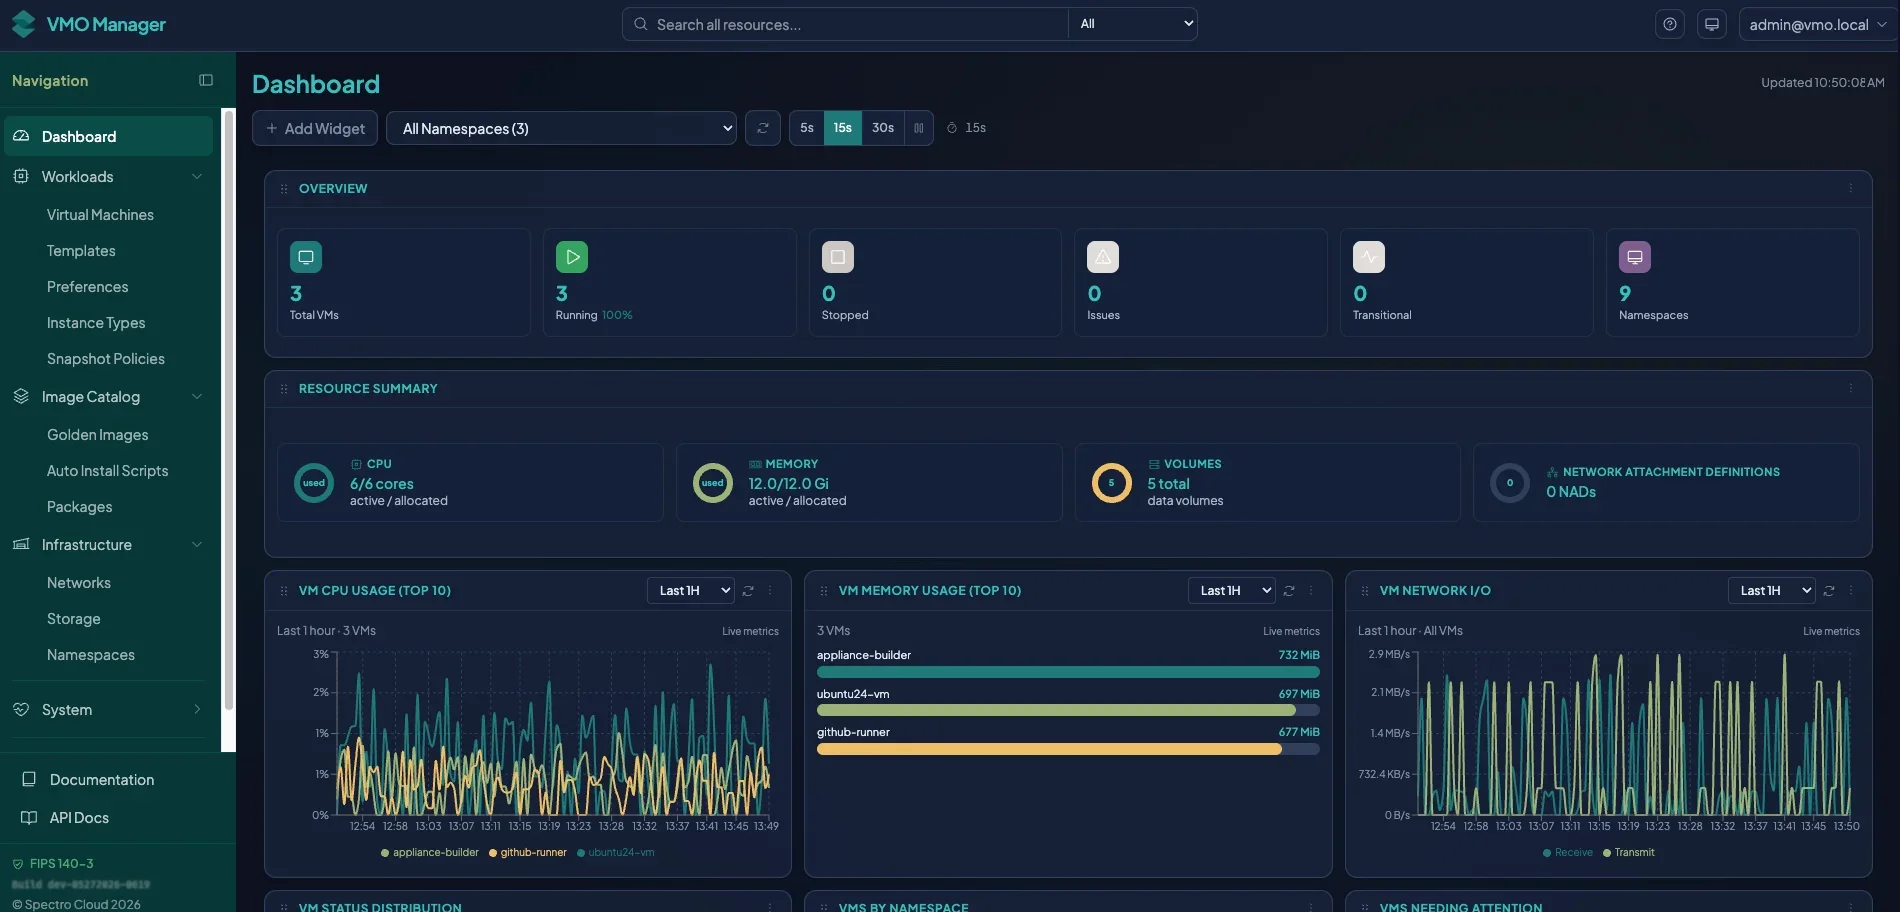
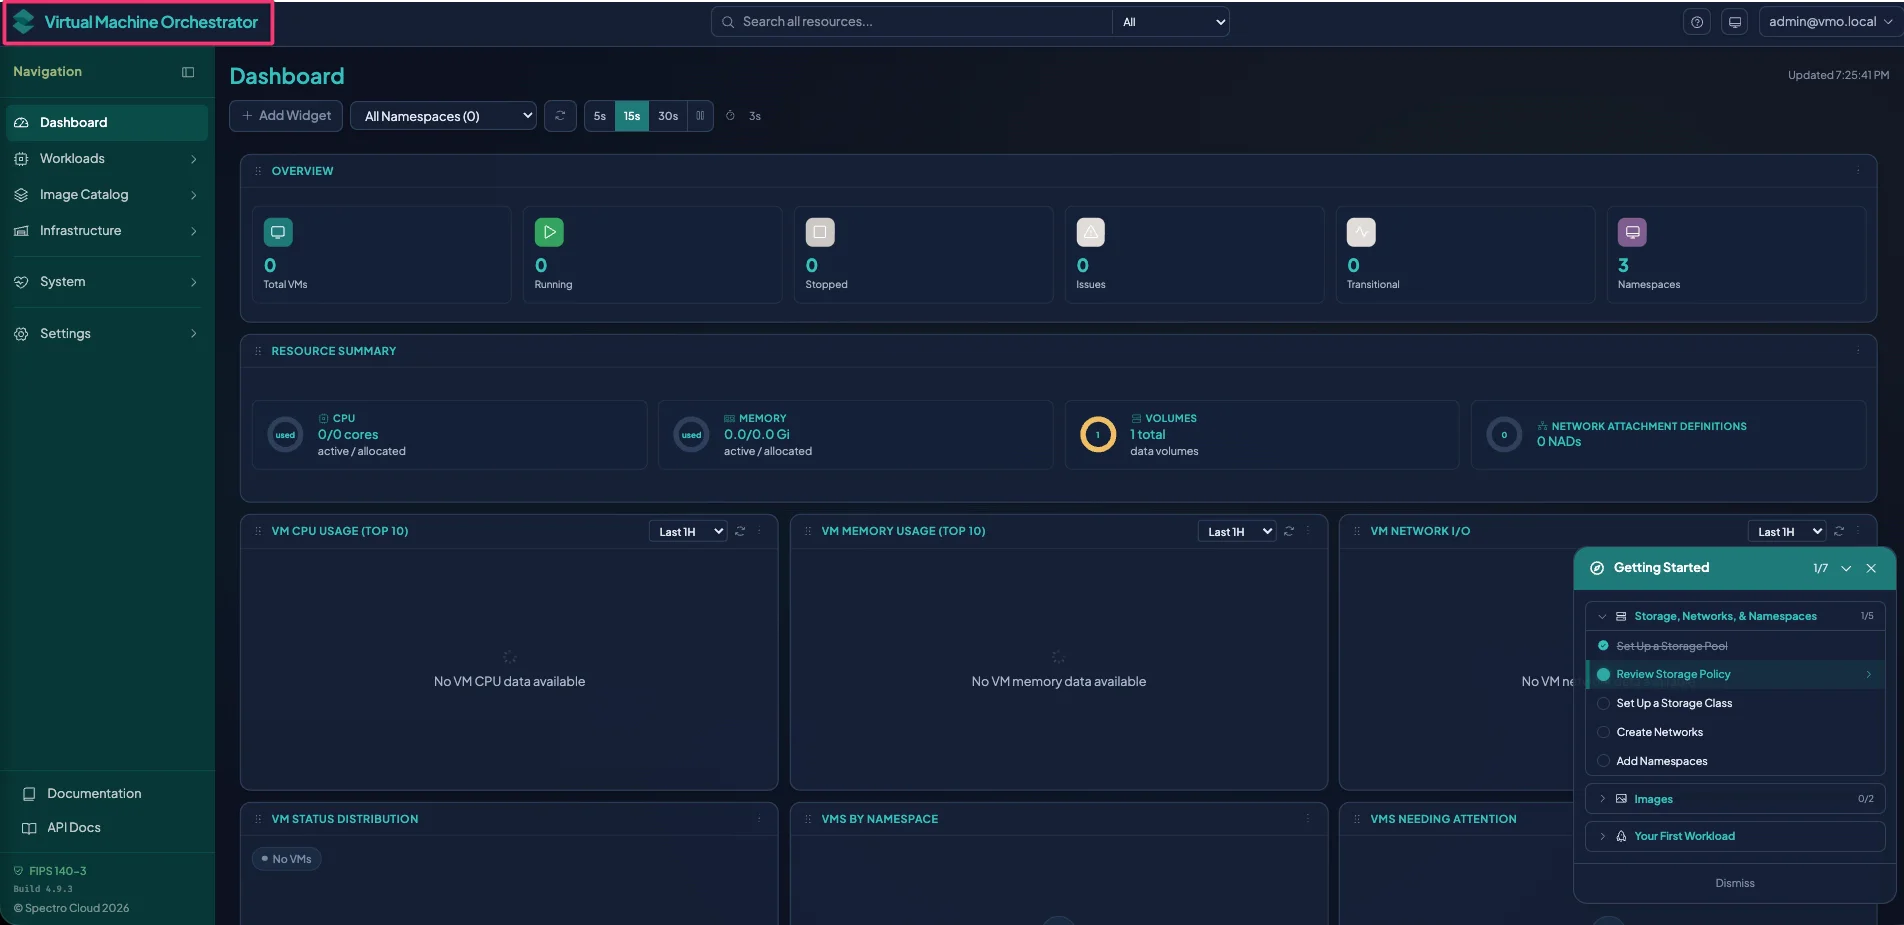
doc-2906: more launchpad ga updates from gautam (#10724)
* doc-2906: more launchpad ga updates from gautam

* doc-2906: more launchpad ga updates from gautam

* more updates

* minor markdown fixes

* ci: auto-formatting prettier issues

* Optimised images with calibre/image-actions

* suggests as per Ben

* ci: auto-formatting prettier issues

---------

Pull request: doc-2906: more launchpad ga updates from gautam
# ✅ Pull Request Checklist

Before submitting your PR for review, please complete this checklist to ensure quality.

## Checklist

- [x] The **PR description** in the [Describe the Change](#-describe-the-change) section explains what changed and
      provides any additional context.
- [x] A **Jira ticket** is provided in the [Jira Tickets](#-jira-tickets) section AND in the PR title. _If this PR has
      no corresponding Jira ticket, then please indicate so in this section._
- [x] **Preview links** are for all affected pages are provided in the [Changed Pages](#-changed-pages). _If this PR
      makes no user-facing changes, please indicate so in this section._
- [x] Conduct a **self-review** for your pages using your preview links. Verify grammar, clarity, and accuracy.
- [x] **Check formatting** for your pages
  - [ ] Verify indentations, admonitions, and tables (if applicable).
  - [ ] Verify all images display.
- [x] Ensure all **Vale comments** are resolved.
  - [ ] If required, raise a PR to modify the
        [Vale accept list](https://github.com/spectrocloud/spectro-vale-pkg/blob/main/packages/spectrocloud-docs-internal/styles/config/vocabularies/spectrocloud-vocab/accept.txt).
        _This can be done later, but leave a note if required._
- [x] All **CI jobs** have completed successfully.
- [x] Add **Backport labels** if the change should be reflected in previous versions. _If required, remember to add the
[…]

diff --git a/docs/docs-content/vm-management/launchpad-for-vms/install-vmla-iso.md b/docs/docs-content/vm-management/launchpad-for-vms/install-vmla-iso.md
@@ -47,19 +47,36 @@ Each device where you install the Launchpad for VMs Appliance ISO must meet the 
 2. In the **Launchpad for VMs** section, use the drop-down to select the appropriate version, and select **Show
    Artifacts**.
 
-3. **Download** the **Launchpad for VMs Appliance ISO**. You can download the Appliance with the Cluster Config already
-   staged (**Appliance ISO with Content**) or, if you have limited disk space for a virtual ISO, download a slim version
-   of the ISO (**Appliance ISO**). Download the **Content bundle (including Ubuntu)** and
-   [upload the content bundle using Local UI](../../clusters/edge/local-ui/cluster-management/upload-content-bundle.md#upload-bundle)
-   or [Palette CLI](../../automation/palette-cli/commands/content.md#upload).
+3. The following table describes the installer options to download for installation.
+
+   | **Artifact**                          | **Description**                                 |
+   | ------------------------------------- | ----------------------------------------------- |
+   | **Content bundle (including Ubuntu)** | Content bundle to use with **Appliance ISO**.   |
+   | **Appliance ISO**                     | Smaller ISO without embedded content bundle.    |
+   | **Appliance ISO with Content**        | Full ISO with embedded content bundle.          |
+   | **MOK Key for Secure Boot**           | MOK key to use for secure boot with MokManager. |
+
+4. Download the **Appliance ISO with Content**. Or, download both **Appliance ISO** and **Content bundle (including
+   Ubuntu)**. Download **MOK Key for Secure Boot** if you use secure boot on your host.
+
+   If you have downloaded the **Content bundle (including Ubuntu)**,
+   [upload it using Local UI](../../clusters/edge/local-ui/cluster-management/upload-content-bundle.md#upload-bundle) or
+   [Palette CLI](../../automation/palette-cli/commands/content.md#upload).
+
+   :::info
+
+   Use the slim **Appliance ISO** and **Content bundle (including Ubuntu)** when you have limited network capacity for
+   mounting ISOs and when you have greater network capacity to upload the content bundle after the initial install.
+
+   :::
 
 ![Screenshot of download screen from artifact studio](/vmo/vm-management_launchpad-for-vms_iso-download-4-9.webp)
 
-4. Boot your device using the Launchpad for VMs Appliance ISO.
+5. Boot your device using the Launchpad for VMs Appliance ISO.
 
-5. <PartialsComponent category="self-hosted" name="secure-boot-mokmanager" />
+6. <PartialsComponent category="self-hosted" name="secure-boot-mokmanager" />
 
-6. From the **Launchpad for VMs Interactive Installer** screen, select the disk to install the appliance on. Press
+7. From the **Launchpad for VMs Interactive Installer** screen, select the disk to install the appliance on. Press
    **ENTER** to proceed to the next screen.
 
    :::danger
@@ -68,7 +85,7 @@ Each device where you install the Launchpad for VMs Appliance ISO must meet the 
 
    :::
 
-7. On the **Installation Options** screen, select what the installer does after the installation completes. Press
+8. On the **Installation Options** screen, select what the installer does after the installation completes. Press
    **ENTER** to begin the installation process. After the installation completes, disconnect the ISO. The following
    table describes the available options.
 
@@ -78,11 +95,11 @@ Each device where you install the Launchpad for VMs Appliance ISO must meet the 
    | **reboot**   | Automatically reboots the system.               |
    | **poweroff** | Powers off the system.                          |
 
-8. On the **GNU GRUB** screen, select **Palette eXtended Kubernetes Edge Registration**.
+9. On the **GNU GRUB** screen, select **Palette eXtended Kubernetes Edge Registration**.
 
-9. On the **Palette TUI** screen, press **F2** to begin configuring your Edge host.
+10. On the **Palette TUI** screen, press **F2** to begin configuring your Edge host.
 
-10. In the Palette TUI, provide credentials for the initial account. Use this account to log in to Local UI and access
+11. In the Palette TUI, provide credentials for the initial account. Use this account to log in to Local UI and access
     the node through SSH.
 
     | **Field**               | **Description**                                   |
@@ -94,12 +111,12 @@ Each device where you install the Launchpad for VMs Appliance ISO must meet the 
 
     Press **ENTER** to continue.
 
-11. In the Palette TUI, the available configuration options appear. Use the **TAB** key or the up and down arrow keys to
+12. In the Palette TUI, the available configuration options appear. Use the **TAB** key or the up and down arrow keys to
     switch between fields. When you make a change, press **ENTER** to apply the change. Use **ESC** to go back.
 
-12. In **Hostname**, check the existing hostname and, optionally, change it to a new one.
+13. In **Hostname**, check the existing hostname and, optionally, change it to a new one.
 
-13. In **Network Adapter**, select a network adapter to configure. By default, network adapters request an IP address
+14. In **Network Adapter**, select a network adapter to configure. By default, network adapters request an IP address
     automatically from the Dynamic Host Configuration Protocol (DHCP) server. The Classless Inter-Domain Routing (CIDR)
     block of each adapter's possible IP address appears on the **Network Adapter** screen.
 
@@ -107,19 +124,19 @@ Each device where you install the Launchpad for VMs Appliance ISO must meet the 
     static IP mode, provide a static external IP address, subnet mask, and the default gateway address. A static
     external IP address removes the existing DHCP settings.
 
-14. (Optional) Specify a Virtual Local Area Network (VLAN) ID on the configuration page of each network adapter. A VLAN
+15. (Optional) Specify a Virtual Local Area Network (VLAN) ID on the configuration page of each network adapter. A VLAN
     ID segments network traffic on the same physical network interface for network isolation. If you assign a VLAN ID,
     the Launchpad host tags all outgoing packets from that adapter with the specified VLAN identifier.
 
-15. (Optional) Specify the MTU for your network adapter. The MTU defines the largest packet size, in bytes, that the
+16. (Optional) Specify the MTU for your network adapter. The MTU defines the largest packet size, in bytes, that the
     interface can send without fragmentation. Press **ENTER** to apply the change.
 
-16. In **DNS Configuration**, specify the IP addresses of the primary and secondary name servers. Optionally, specify a
+17. In **DNS Configuration**, specify the IP addresses of the primary and secondary name servers. Optionally, specify a
     search domain. Press **ENTER** to apply the change.
 
-17. In **NTP Configuration**, specify one or more NTP servers. For example, `0.pool.ntp.org` and `1.pool.ntp.org`.
+18. In **NTP Configuration**, specify one or more NTP servers. For example, `0.pool.ntp.org` and `1.pool.ntp.org`.
 
-18. After you confirm the configurations, navigate to **Logout** and press **ENTER** to complete the configuration. The
+19. After you confirm the configurations, navigate to **Logout** and press **ENTER** to complete the configuration. The
     terminal screen displays the hostname and network information of your Launchpad host. Verify that all displayed
     information is consistent with your configurations.
 
@@ -206,6 +223,7 @@ Each device where you install the Launchpad for VMs Appliance ISO must meet the 
    | **Kubernetes**             | `edge-k8s`                     | Kubernetes platform.                                                                                                                             |
    | **Cilium**                 | `cni-cilium-fips`              | CNI and network policy. Multus support for VM networking.                                                                                        |
    | **Piraeus**                | `piraeus-operator`             | Storage backend. Provides StorageClass for VM disks.                                                                                             |
+   | **Piraeus Netiface**       | `piraeus-netface-builder`      | Storage replication network helper. Sets up the network interface for storage replication communication.                                         |
    | **Zot**                    | `zot-registry-fips`            | OCI registry. Stores container images for air-gapped deployments.                                                                                |
    | **Registry Connect**       | `registry-connect`             | Enables integration with OCI-compliant registries.                                                                                               |
    | **Required config**        | `required-config-1`            | Initial configuration before continuing.                                                                                                         |
@@ -231,17 +249,17 @@ Each device where you install the Launchpad for VMs Appliance ISO must meet the 
 
    ### Network Settings
 
-   | **Parameter**                        | **Description**                                                                                                                           |
-   | ------------------------------------ | ----------------------------------------------------------------------------------------------------------------------------------------- |
-   | **Pod CIDR**                         | IP address range assigned to internal Kubernetes pod networking. Change only if this conflicts with your existing network.                |
-   | **Service CIDR**                     | IP address range reserved for Kubernetes services, such as internal load balancers and DNS. Must not overlap with Pod Network Range.      |
-   | **MetalLB IP Address**               | A single unused IP address on your network that exposes cluster services externally.                                                      |
-   | **Cilium and MetalLB interface**     | The physical network interface, bond, or bridge on each node used for cluster traffic and external service announcements.                 |
-   | **Enable VLAN Filtering (Optional)** | When enabled, the bridge interface permits only VLANs listed in **VLAN range for VMs**. Disable unless you need strict VLAN isolation.    |
-   | **VLAN range for VMs**               | VLAN IDs that tenant VMs can use. Accepts individual IDs, such as `12` and `13`, or ranges, such as `15-20`.                              |
-   | **Bridge Interface**                 | The Linux bridge interface on cluster nodes that connects tenant VMs to the physical network. Leave blank to auto-detect.                 |
-   | **Cluster runs on br0**              | Enable if your Kubernetes cluster nodes communicate via the `br0` bridge interface or a VLAN sub-interface of br0.                        |
-   | **VLANs on top of br0**              | List all VLAN IDs configured as sub-interfaces or dynamically attached on `br0`. Include VLAN 1 and all VM VLANs. For example, `1,10,20`. |
+   | **Parameter**                              | **Description**                                                                                                                           |
+   | ------------------------------------------ | ----------------------------------------------------------------------------------------------------------------------------------------- |
+   | **Pod Network Range**                      | IP address range assigned to internal Kubernetes pod networking. Change only if this conflicts with your existing network.                |
+   | **Service Network Range**                  | IP address range reserved for Kubernetes services, such as internal load balancers and DNS. Must not overlap with Pod Network Range.      |
+   | **Platform IP IP Address**                 | A single unused IP address on your network that exposes cluster services externally.                                                      |
+   | **Cluster Network Interface**              | The physical network interface, bond, or bridge on each node used for cluster traffic and external service announcements.                 |
+   | **Restrict Allowed VLANs (Optional)**      | When enabled, the bridge interface permits only VLANs listed in **VLAN range for VMs**. Disable unless you need strict VLAN isolation.    |
+   | **VM VLAN Range**                          | VLAN IDs that tenant VMs can use. Accepts individual IDs, such as `12` and `13`, or ranges, such as `15-20`.                              |
+   | **VM Bridge Interface**                    | The Linux bridge interface on cluster nodes that connects tenant VMs to the physical network.                                             |
+   | **Use br0 for Cluster Traffic (Optional)** | Enable if your Kubernetes cluster nodes communicate via the `br0` bridge interface or a VLAN sub-interface of br0.                        |
+   | **Br0 VLAN Sub-Interface**                 | List all VLAN IDs configured as sub-interfaces or dynamically attached on `br0`. Include VLAN 1 and all VM VLANs. For example, `1,10,20`. |
 
    ### OS and Metrics
 
@@ -259,7 +277,7 @@ Each device where you install the Launchpad for VMs Appliance ISO must meet the 
    | **OCI Pack Registry Username** | Username to authenticate with the automatically deployed, local container image registry used by the platform. |
    | **OCI Pack Registry Password** | Password for the automatically deployed, local container image registry. This value is stored securely.        |
 
-   :::warn
+   :::warning
 
    Passwords must contain 6 to 64 characters and include at least one uppercase letter, one lowercase letter, one
    number, and one special character.
@@ -346,7 +364,7 @@ Each device where you install the Launchpad for VMs Appliance ISO must meet the 
 
    ![Screenshot of appliance](/vmo/vm-management_launchpad-for-vms_install-4-9.webp)
 
-## Verify
+## Validate
 
 1. From the left main menu in the Launchpad for VMs appliance, select **VM Orchestrator**. You can also go to the
    address you provided for MetalLB in your browser.

diff --git a/docs/docs-content/vm-management/launchpad-for-vms/quick-start.md b/docs/docs-content/vm-management/launchpad-for-vms/quick-start.md
@@ -24,7 +24,8 @@ steps to create a general-purpose VM (1 vCPU, 4 Gi memory) using an Ubuntu 24.04
 
 ## Upload ISO
 
-Before you can create a VM, upload the ISO installer to your cluster as a
+Before you can create a VM, you must upload the OS ISO installer that you will use as the base for the BM. These ISOs
+are uploaded as
 [KubeVirt Containerized Data Importer (CDI) DataVolume](https://kubevirt.io/user-guide/storage/containerized_data_importer/),
 which manages the storage and lifecycle of a VM disk image.
 
@@ -47,7 +48,7 @@ which manages the storage and lifecycle of a VM disk image.
 
    | **Parameter**       | **Description**                                                                                                                                                                                                               |
    | ------------------- | ----------------------------------------------------------------------------------------------------------------------------------------------------------------------------------------------------------------------------- |
-   | **DataVolume Name** | Enter a unique name for the ISO installer. For this guide, use a descriptive name such as `ubuntu-2404-iso`.                                                                                                                  |
+   | **DataVolume Name** | Enter a unique name for the OS ISO installer. For this guide, use a descriptive name such as `ubuntu-2404-iso`.                                                                                                               |
    | **Namespace**       | Select the namespace to store your image in. The `vmo-golden-images` namespace is created by default during cluster deployment and is the recommended location for ISO installers and golden images.                          |
    | **Storage Class**   | Select a storage class from the drop-down menu. The Launchpad Appliance includes Piraeus/LINSTOR as the default storage backend, which creates storage classes during cluster deployment. Select the available storage class. |
    | **Volume Size**     | Set the disk capacity for the DataVolume that stores the uploaded ISO. The size must be large enough to hold the ISO file. Specify the value in GiB or TiB. For an Ubuntu 24.04 desktop ISO, 8 GiB is sufficient.             |